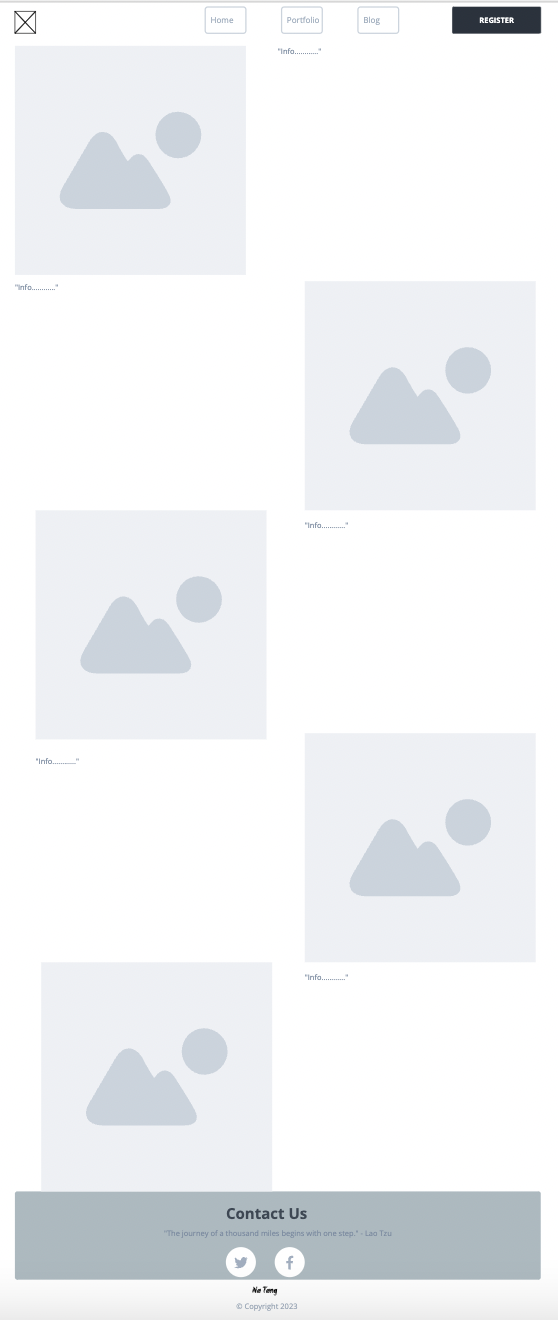
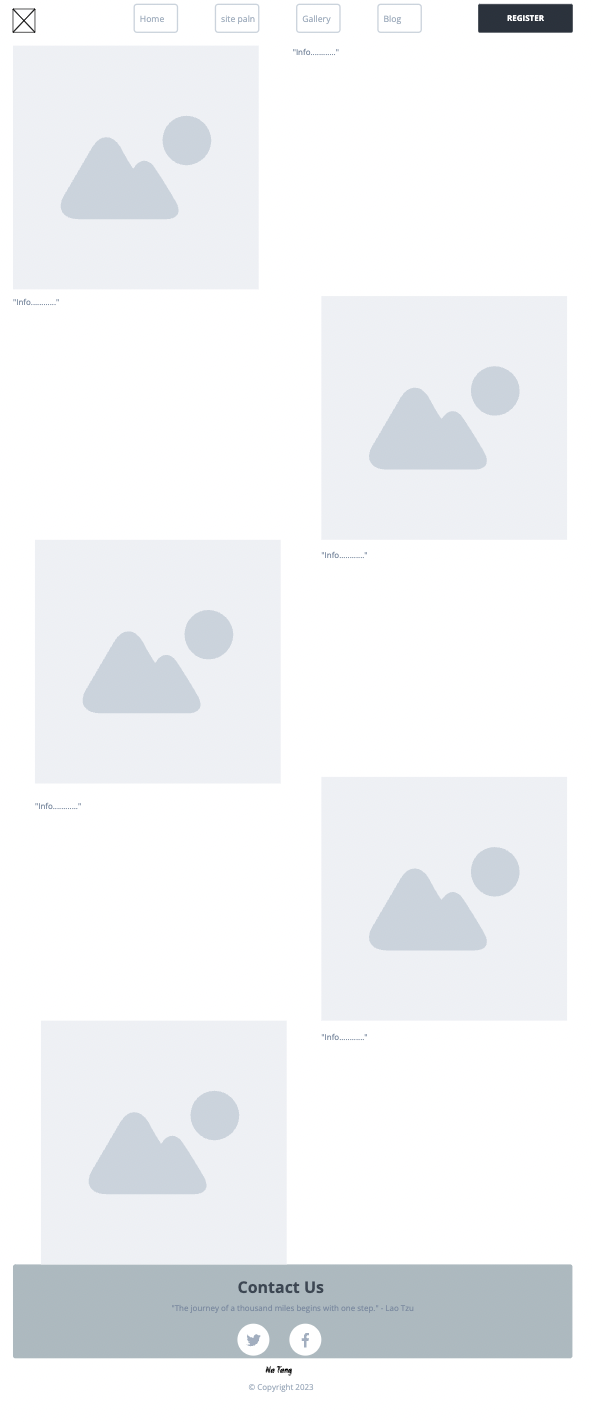
switched the wireframes

diff --git a/site-plan.html b/site-plan.html
@@ -163,21 +163,21 @@
         Home Wireframe
       </p>
       <div class="home-img">
-        <img src="image/new home.png" alt="home page wireframe">
+        <img src="image/home.png" alt="home page wireframe">
       </div>
       <h3>Gallery</h3>
       <p>         
         Gallery Wireframe
       </p>
       <div class="portfolio-img">
-        <img src="image/new protolio.png" alt="page 2 wireframe">
+        <img src="image/gallery.png" alt="page 2 wireframe">
       </div>
       <h3>Blog</h3>
       <p>         
        Blog Wireframe
       </p>
       <div class="blog-img">
-       <img src="image/new-blog .png" alt="page 3 wireframe">
+       <img src="image/blog.png" alt="page 3 wireframe">
       </div>
     </main>
   </body>
